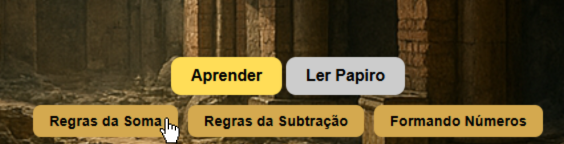
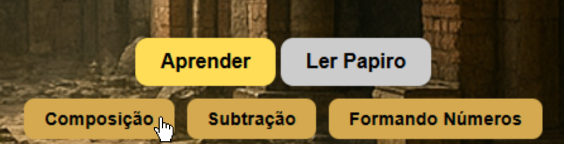
Add files via upload

diff --git a/roseta.html b/roseta.html
@@ -554,12 +554,12 @@ body.lupa-active {
     
     <div class="tutorial-section">
       <h3>Regras dos Números Romanos</h3>
-      <h4>1. Regras da Soma</h4>
+      <h4>1. Composição</h4>
       <p>Quando um símbolo menor aparece <strong>depois</strong> de um maior, some seus valores:</p>
       <img src="soma.png" class="tutorial-img" alt="Exemplo Soma">
       <p>VI = 5 + 1 = 6<br>XII = 10 + 1 + 1 = 12</p>
       
-      <h4>2. Regras da Subtração</h4>
+      <h4>2. Subtração</h4>
       <p>Quando um símbolo menor aparece <strong>antes</strong> de um maior, subtraia:</p>
       <img src="subtracao.png" class="tutorial-img" alt="Exemplo Subtração">
       <p>IV = 5 - 1 = 4<br>IX = 10 - 1 = 9</p>
@@ -616,11 +616,11 @@ body.lupa-active {
     <h3>Seu Progresso:</h3>
     <div class="progress-item">
       <div class="progress-check" id="progress-soma">?</div>
-      <span>Regras da Soma</span>
+      <span>Composição</span>
     </div>
     <div class="progress-item">
       <div class="progress-check" id="progress-subtracao">?</div>
-      <span>Regras da Subtração</span>
+      <span>Subtração</span>
     </div>
     <div class="progress-item">
       <div class="progress-check" id="progress-formacao">?</div>
@@ -636,8 +636,8 @@ body.lupa-active {
       <button id="lerPapiroBtn" class="ler-papiro-btn disabled" onclick="verificarAcessoPapiro()">Ler Papiro</button>
     </div>
     <div class="submenu" id="submenu">
-      <button onclick="abrirModal('soma')" id="btn-soma">Regras da Soma</button>
-      <button onclick="abrirModal('subtracao')" id="btn-subtracao">Regras da Subtração</button>
+      <button onclick="abrirModal('soma')" id="btn-soma">Composição</button>
+      <button onclick="abrirModal('subtracao')" id="btn-subtracao">Subtração</button>
       <button onclick="abrirModal('formacao')" id="btn-formacao">Formando Números</button>
     </div>
   </div>
@@ -645,7 +645,7 @@ body.lupa-active {
   <!-- Modal Regras da Soma com Quiz -->
   <div class="modal" id="modal-soma">
     <button class="close-btn" onclick="prepareToClose('soma')">X</button>
-    <h2>Regras da Soma</h2>
+    <h2>Composição</h2>
     <p>Na numeração romana, quando um símbolo de menor valor aparece após um símbolo de maior valor, seus valores são somados. Exemplo: VI = V (5) + I (1) = 6.</p>
     <p>Outros exemplos: XII = X (10) + I (1) + I (1) = 12, LX = L (50) + X (10) = 60.</p>
    
@@ -663,7 +663,7 @@ body.lupa-active {
   <!-- Modal Regras da Subtração com Quiz -->
   <div class="modal" id="modal-subtracao">
     <button class="close-btn" onclick="prepareToClose('subtracao')">X</button>
-    <h2>Regras da Subtração</h2>
+    <h2>Subtração</h2>
     <p>Quando um símbolo de menor valor aparece antes de um símbolo de maior valor, seu valor é subtraído. Exemplo: IV = V (5) - I (1) = 4.</p>
     <p>Esta regra se aplica apenas aos pares: I antes de V ou X, X antes de L ou C, C antes de D ou M.</p>
     <p>Outros exemplos: IX = X (10) - I (1) = 9, XC = C (100) - X (10) = 90.</p>
